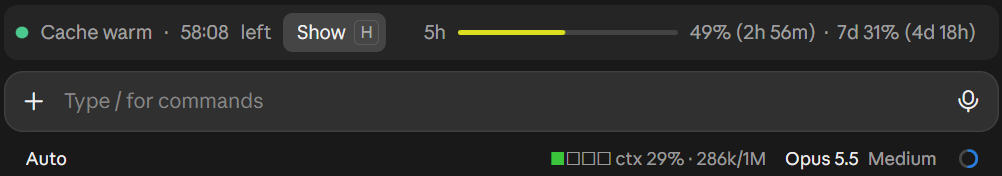
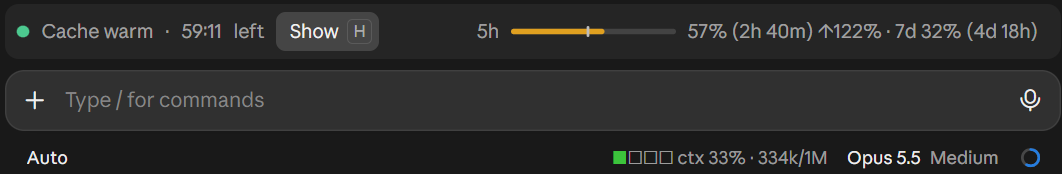
Screenshot with pace coloring; limit-band types comment matches the defaults

diff --git a/plugins/limit-band/types/index.d.ts b/plugins/limit-band/types/index.d.ts
@@ -1,6 +1,6 @@
 export type Window = { percent: number; resetsAt: number | null }
 export type Limits = { fiveHour: Window | null; sevenDay: Window | null }
-// ok: on pace; ahead: would run out before the reset; over: well past that, or 80% used
+// ok: on pace; ahead: would run out before the reset, or 60% used; over: well past that, or 90% used (the defaults)
 export type Pace = 'ok' | 'ahead' | 'over'
 // The userConfig thresholds in percent; null is off
 export type PaceConfig = { amberUsed: number | null; redUsed: number | null; amberPace: number | null; redPace: number | null }
